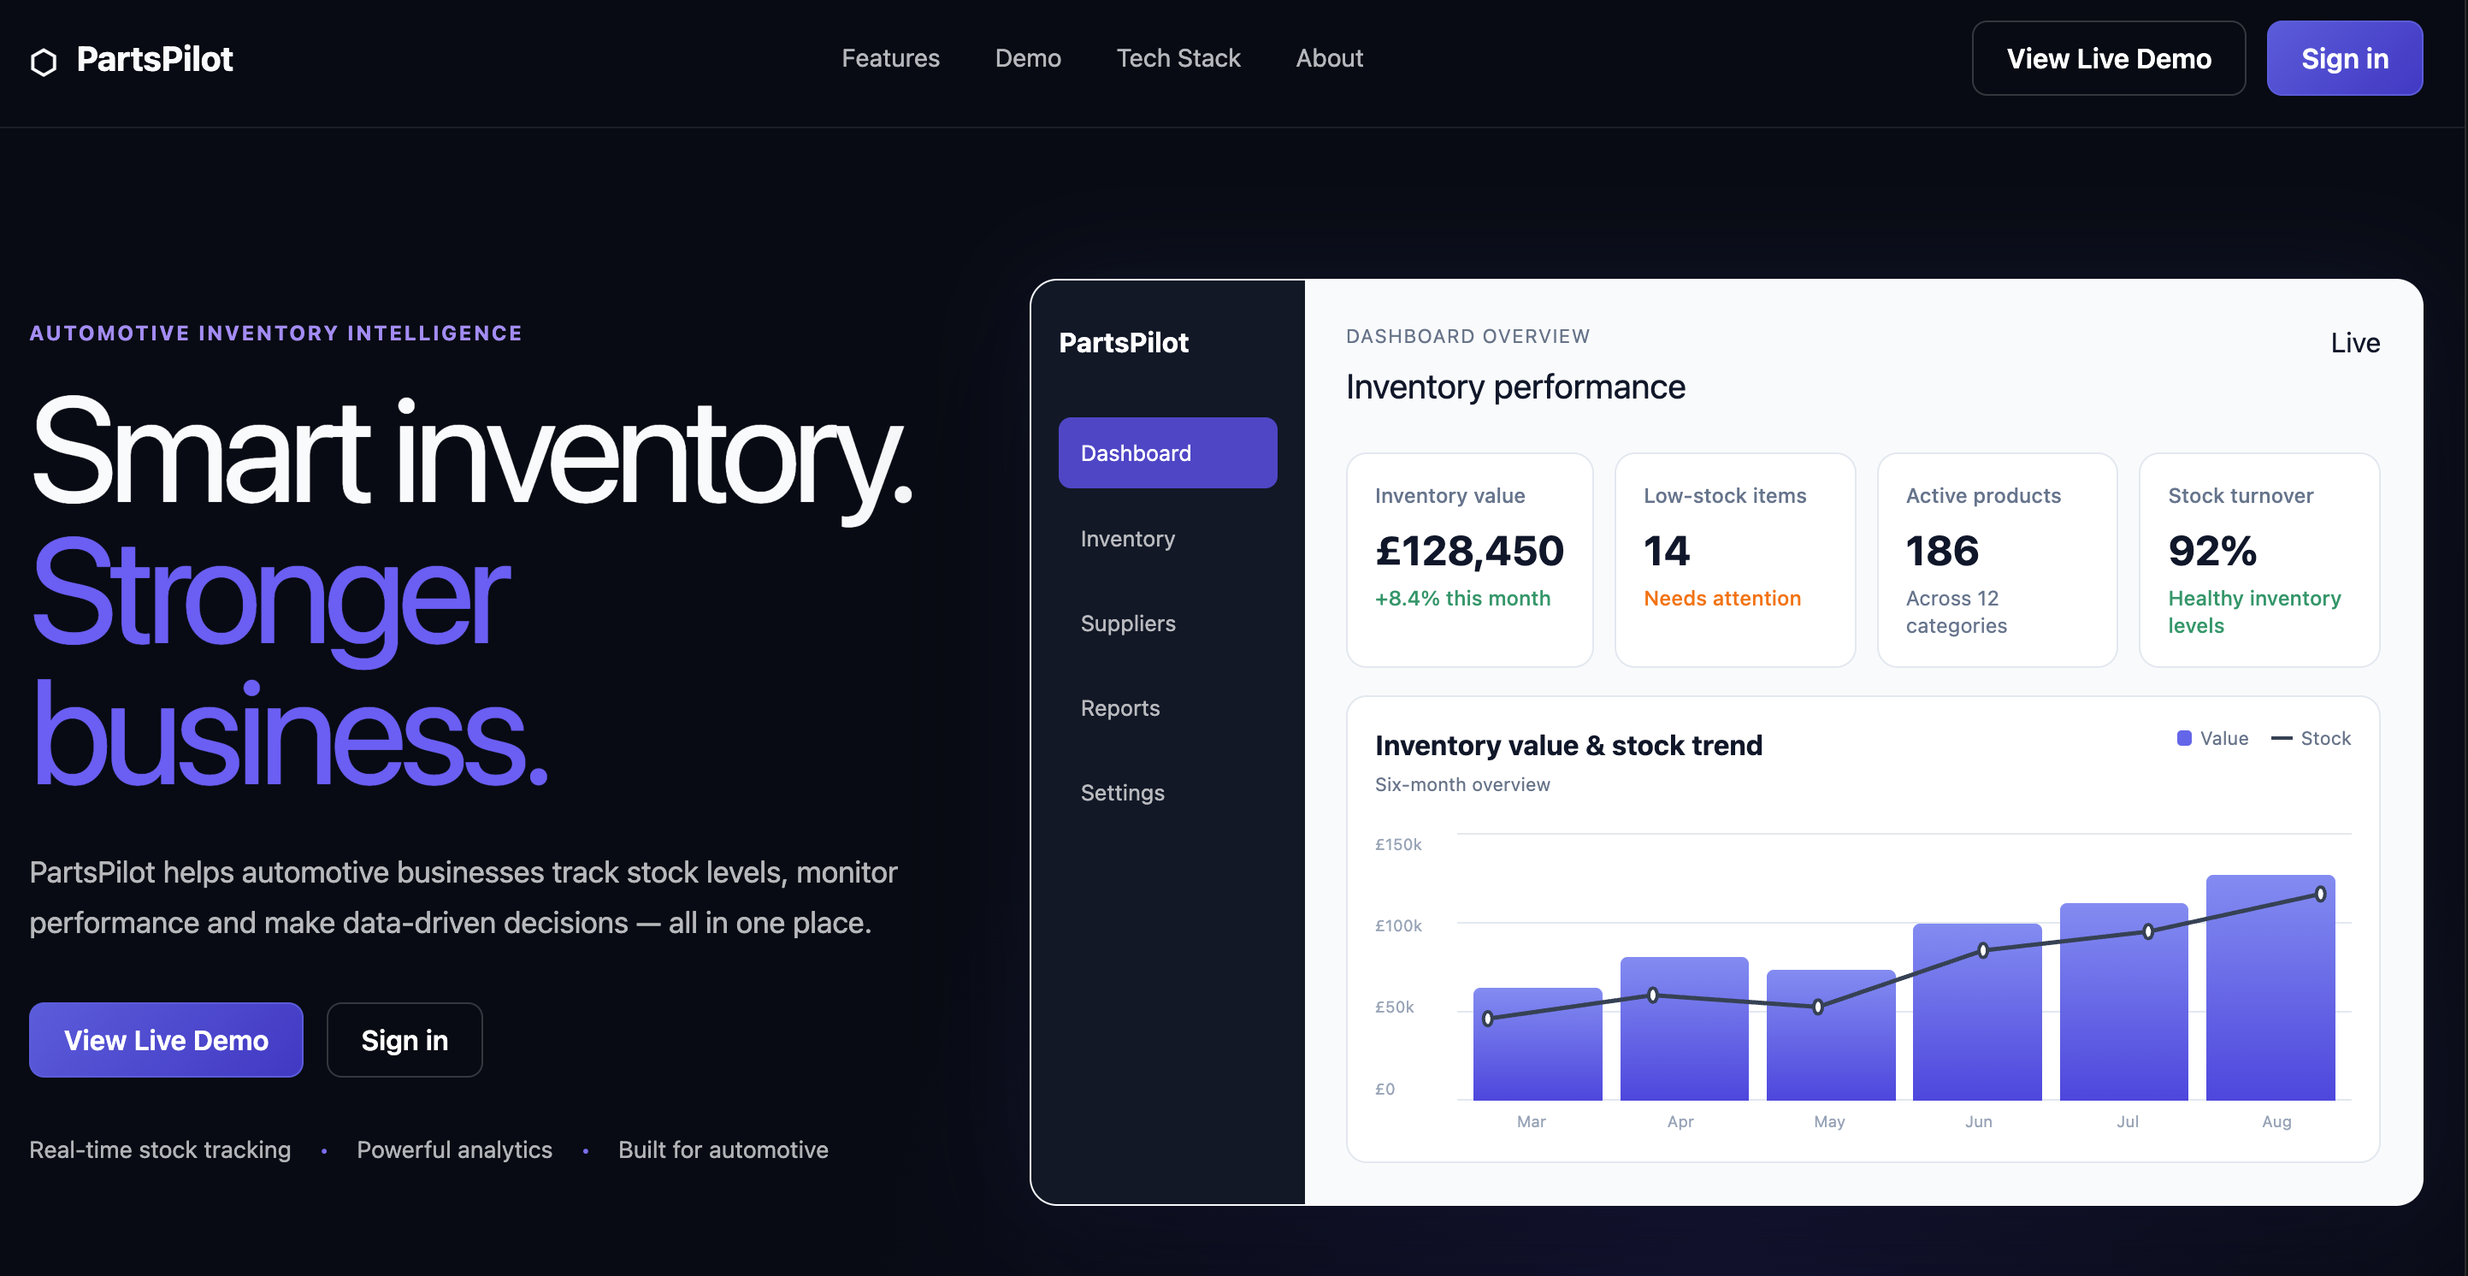
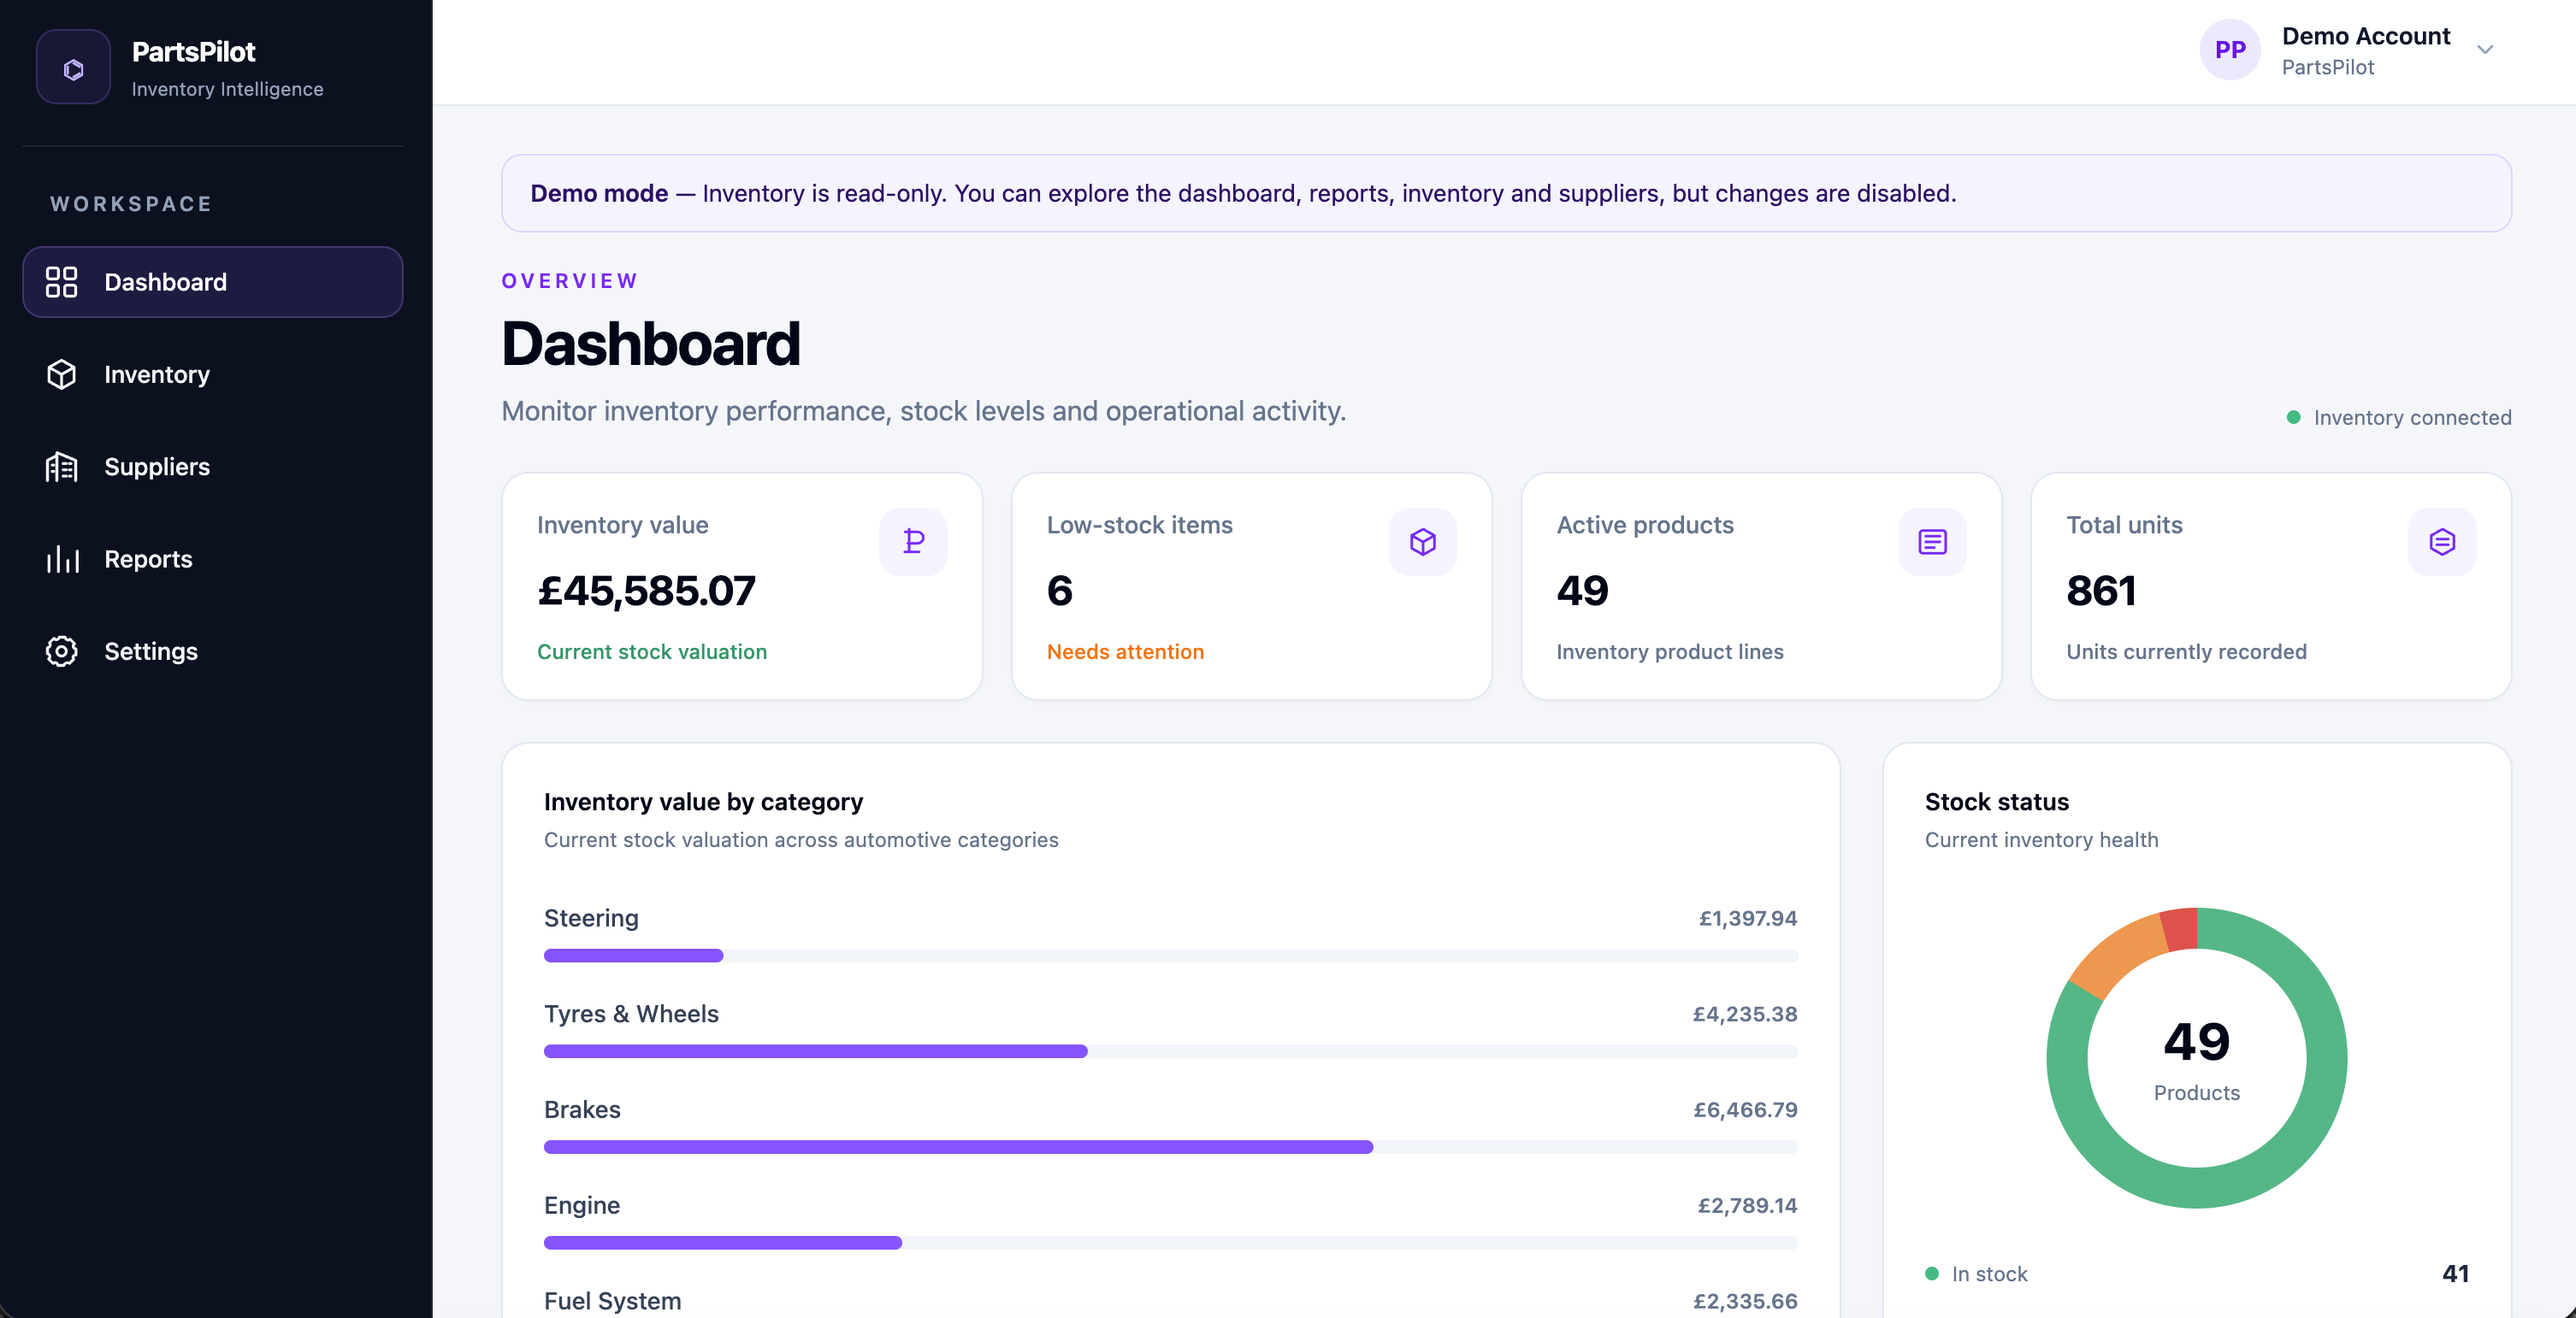
feat: refresh work case studies

diff --git a/src/app/work/kawari-company/page.tsx b/src/app/work/kawari-company/page.tsx
@@ -1,4 +1,5 @@
 import type { Metadata } from "next";
+import Image from "next/image";
 import Link from "next/link";
 
 export const metadata: Metadata = {
@@ -14,52 +15,74 @@ export default function KawariCompanyPage() {
   return (
     <main className="case-study">
       <div className="site-container">
+        {/* Hero */}
         <section className="case-study__hero">
           <Link href="/work" className="case-study__back">
             ← Back to work
           </Link>
 
           <p className="case-study__eyebrow">
-            Web Design & Development
+            Client Website · Design & Development
           </p>
 
           <h1>Kawari Company</h1>
 
           <p className="case-study__lead">
-            A custom consultancy website for a specialist practice working
-            across safeguarding, regulation, education and independent review.
+            A live consultancy website designed and developed for Kawari Company,
+            a specialist practice working across safeguarding, regulation,
+            education and independent review.
           </p>
 
           <div className="case-study__meta">
             <div>
-              <span>Status</span>
-              <p>Live</p>
-            </div>
-
-            <div>
               <span>Project</span>
-              <p>Business Website</p>
+              <p>Client Website</p>
             </div>
 
             <div>
-              <span>Focus</span>
+              <span>Industry</span>
               <p>Professional Services</p>
             </div>
 
             <div>
-              <span>Delivery</span>
-              <p>Responsive Web</p>
+              <span>My Role</span>
+              <p>Designer & Developer</p>
+            </div>
+
+            <div>
+              <span>Status</span>
+              <a
+                href="https://www.kawaricompany.com"
+                target="_blank"
+                rel="noreferrer"
+                className="case-study__meta-link"
+              >
+                Live website ↗
+              </a>
             </div>
           </div>
         </section>
 
+        {/* Main website image */}
+        <section className="case-study__visual">
+          <div className="case-study__image">
+            <Image
+              src="/images/work/kawari-company/kawari-homepage.png"
+              alt="Kawari Company live consultancy website homepage"
+              width={1600}
+              height={900}
+              className="case-study__screenshot"
+              priority
+            />
+          </div>
+        </section>
+
+        {/* Section 01 - Project */}
         <section className="case-study__section case-study__section--accent">
           <div className="case-study__section-grid">
             <div>
               <p className="case-study__section-number">01</p>
-              <p className="case-study__section-label">
-                The Project
-              </p>
+              <p className="case-study__section-label">The Project</p>
             </div>
 
             <div className="case-study__section-content">
@@ -84,13 +107,12 @@ export default function KawariCompanyPage() {
           </div>
         </section>
 
+        {/* Section 02 - Approach */}
         <section className="case-study__section">
           <div className="case-study__section-grid">
             <div>
               <p className="case-study__section-number">02</p>
-              <p className="case-study__section-label">
-                The Approach
-              </p>
+              <p className="case-study__section-label">The Approach</p>
             </div>
 
             <div className="case-study__section-content">
@@ -114,64 +136,90 @@ export default function KawariCompanyPage() {
           </div>
         </section>
 
+        {/* Services / content image */}
+        <section className="case-study__visual">
+          <div className="case-study__image">
+            <Image
+              src="/images/work/kawari-company/services.png"
+              alt="Kawari Company consultancy services and content layout"
+              width={1600}
+              height={900}
+              className="case-study__screenshot"
+            />
+          </div>
+        </section>
+
+        {/* Section 03 - Delivered */}
         <section className="case-study__section case-study__section--accent">
-          <div className="site-container">
-            <div className="case-study__section-grid">
-              <div>
-                <p className="case-study__section-number">03</p>
-                <p className="case-study__section-label">
-                  Delivered
-                </p>
-              </div>
+          <div className="case-study__section-grid">
+            <div>
+              <p className="case-study__section-number">03</p>
+              <p className="case-study__section-label">Delivered</p>
+            </div>
 
-              <div className="case-study__section-content">
-                <h2>
-                  More than a one-page brochure website.
-                </h2>
+            <div className="case-study__section-content">
+              <h2>
+                More than a one-page brochure website.
+              </h2>
 
-                <p>
-                  The finished project combines the public-facing website with
-                  the practical pieces needed to support a real business launch.
-                </p>
+              <p>
+                The finished project combines the public-facing website with
+                the practical pieces needed to support a real business launch.
+              </p>
 
-                <div className="case-study__capabilities">
-                  <div className="case-study__capability">
-                    <span>01</span>
-                    <p>Custom responsive website</p>
-                  </div>
+              <div className="case-study__capabilities">
+                <div className="case-study__capability">
+                  <span>01</span>
+                  <p>Custom responsive website</p>
+                </div>
 
-                  <div className="case-study__capability">
-                    <span>02</span>
-                    <p>Contact form and email delivery integration</p>
-                  </div>
+                <div className="case-study__capability">
+                  <span>02</span>
+                  <p>Contact form and email delivery integration</p>
+                </div>
 
-                  <div className="case-study__capability">
-                    <span>03</span>
-                    <p>Custom domain and production deployment</p>
-                  </div>
+                <div className="case-study__capability">
+                  <span>03</span>
+                  <p>Custom domain and production deployment</p>
+                </div>
 
-                  <div className="case-study__capability">
-                    <span>04</span>
-                    <p>Digital contact card with QR code and downloadable vCard</p>
-                  </div>
+                <div className="case-study__capability">
+                  <span>04</span>
+                  <p>
+                    Digital contact card with QR code and downloadable vCard
+                  </p>
+                </div>
 
-                  <div className="case-study__capability">
-                    <span>05</span>
-                    <p>Privacy page and production-ready contact journey</p>
-                  </div>
+                <div className="case-study__capability">
+                  <span>05</span>
+                  <p>
+                    Privacy page and production-ready contact journey
+                  </p>
                 </div>
               </div>
             </div>
           </div>
         </section>
 
-        <section className="case-study__section ">
+        {/* Contact image */}
+        <section className="case-study__visual">
+          <div className="case-study__image">
+            <Image
+              src="/images/work/kawari-company/contact.png"
+              alt="Kawari Company client enquiry and contact experience"
+              width={1600}
+              height={900}
+              className="case-study__screenshot"
+            />
+          </div>
+        </section>
+
+        {/* Section 04 - Technology */}
+        <section className="case-study__section">
           <div className="case-study__section-grid">
             <div>
               <p className="case-study__section-number">04</p>
-              <p className="case-study__section-label">
-                Technology
-              </p>
+              <p className="case-study__section-label">Technology</p>
             </div>
 
             <div className="case-study__section-content">
@@ -204,13 +252,12 @@ export default function KawariCompanyPage() {
           </div>
         </section>
 
-        <section className="case-study__section case-study__section--result">
+        {/* Section 05 - Outcome */}
+        <section className="case-study__section case-study__section--accent case-study__section--result">
           <div className="case-study__section-grid">
             <div>
               <p className="case-study__section-number">05</p>
-              <p className="case-study__section-label">
-                Outcome
-              </p>
+              <p className="case-study__section-label">Outcome</p>
             </div>
 
             <div className="case-study__section-content">
@@ -241,13 +288,16 @@ export default function KawariCompanyPage() {
             </div>
           </div>
         </section>
+      </div>
 
-        <nav className="case-study__navigation">
+      {/* Navigation */}
+      <nav className="case-study__navigation">
+        <div className="site-container">
           <Link href="/contact">
             Start a project →
           </Link>
-        </nav>
-      </div>
+        </div>
+      </nav>
     </main>
   );
 }

diff --git a/src/app/work/partspilot/page.tsx b/src/app/work/partspilot/page.tsx
@@ -73,8 +73,8 @@ export default function PartsPilotPage() {
           <h1>PartsPilot</h1>
 
           <p className="case-study__lead">
-            A full-stack automotive inventory management and analytics
-            platform designed to bring stock control, supplier management,
+            A production-deployed full-stack automotive inventory management
+            and analytics platform bringing stock control, supplier management,
             reporting and operational insight into one clear product experience.
           </p>
 
@@ -102,7 +102,7 @@ export default function PartsPilotPage() {
                 rel="noreferrer"
                 className="case-study__meta-link"
               >
-                Live full-stack demo ↗
+                Live · Public demo ↗
               </a>
             </div>
           </div>
@@ -118,6 +118,7 @@ export default function PartsPilotPage() {
               alt="PartsPilot dashboard showing inventory metrics and recent activity"
               width={1600}
               height={900}
+              loading="eager"
               className="case-study__screenshot"
             />
           </div>
@@ -194,7 +195,6 @@ export default function PartsPilotPage() {
               alt="PartsPilot inventory management interface with search, filtering and stock controls"
               width={1600}
               height={900}
-              loading="eager"
               className="case-study__screenshot"
             />
           </div>
@@ -228,6 +228,21 @@ export default function PartsPilotPage() {
                 </div>
               ))}
             </div>
+          </div>
+        </div>
+      </section>
+
+      {/* Reports image */}
+      <section className="case-study__visual">
+        <div className="site-container">
+          <div className="case-study__image">
+            <Image
+              src="/images/work/partspilot/reports.png"
+              alt="PartsPilot reports interface showing inventory and operational analytics"
+              width={1600}
+              height={900}
+              className="case-study__screenshot"
+            />
           </div>
         </div>
       </section>
@@ -370,7 +385,7 @@ export default function PartsPilotPage() {
               rel="noreferrer"
               className="case-study__external-link"
             >
-              View live demo ↗
+              View live public demo ↗
             </a>
           </div>
         </div>

diff --git a/src/app/work/page.tsx b/src/app/work/page.tsx
@@ -14,21 +14,21 @@ export const metadata: Metadata = {
 const projects = [
   {
     title: "Kawari Company",
-    category: "Web Design & Development",
+    category: "Client Website · Design & Development",
     description:
-      "A consultancy website in development for a specialist safeguarding, regulation and independent review practice.",
+      "A live consultancy website designed and developed for a specialist practice working across safeguarding, regulation, education and independent review.",
     href: "/work/kawari-company",
     image: "/images/work/kawari-company/kawari-homepage.png",
-    imageAlt: "Kawari Company homepage",
+    imageAlt: "Kawari Company live consultancy website homepage",
     status: null,
   },
   {
     title: "PartsPilot",
-    category: "Automotive Inventory Intelligence Platform",
+    category: "Full-Stack Product · Automotive",
     description:
-      "A full-stack inventory platform built to manage automotive parts, stock levels and operational data.",
+      "A production-deployed inventory management and analytics platform for automotive stock, suppliers, reporting and operational insight.",
     href: "/work/partspilot",
-    image: "/images/work/partspilot/dashboard.png",
+    image: "/images/work/partspilot/overview.png",
     imageAlt:
       "PartsPilot dashboard showing inventory metrics and recent activity",
     status: null,
